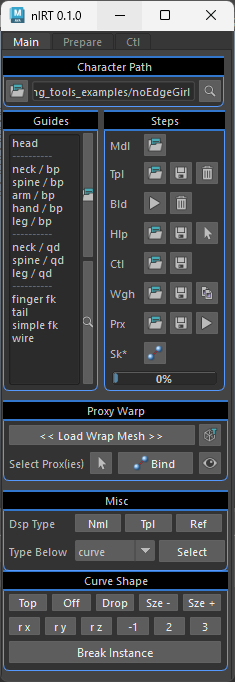
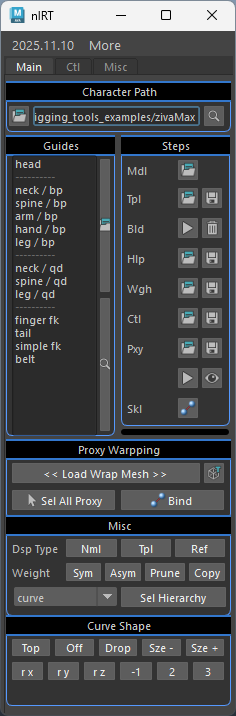
Add installation script for nl_rigging_tools module
- Implemented the onMayaDroppedPythonFile function to create a module file for nl_rigging_tools.
- The script generates a .mod file in the Maya modules directory, pointing to the current directory.
- Added logging for successful creation and error handling for file operations.
- Included functionality to import and reload the nl_rigging_tools module and display its UI.

diff --git a/nl_modules/nl_rigging_tools.py b/nl_modules/nl_rigging_tools.py
@@ -1,5 +1,6 @@
 import logging
 import os
+import maya.mel as mel
 from functools import partial
 from importlib import reload
 import maya.cmds as mc
@@ -55,43 +56,70 @@ class MyToolWin(MayaQWidgetDockableMixin, QtWidgets.QMainWindow):
     def __init__(self, parent=None):
         """Initialize the main window and load the UI."""
         super(MyToolWin, self).__init__(parent)
-        logging.info("load " + UI_PATH)
+        # logging.info("Load " + UI_PATH)
         self.UI = QUiLoader().load(UI_PATH)
 
-        self.setWindowTitle("nlRT 0.1.0")
+        self.setWindowTitle("nlRT")
         self.setCentralWidget(self.UI)
-        self.setGeometry(1070, 260, 230, 660)
+        self.setGeometry(1070, 260, 230, 680)
         self.connect_UI()
-        # self.addMenuBar()
+        self.addMenuBar()
 
     def close_window(self):
         """Close the main window."""
         self.close()
 
+    def addIcon2CurrShelf(*args):
+        """Add icon to current shelf"""
+        currDir = os.path.dirname(__file__)
+        base = os.path.basename(__file__)
+        icon_path = os.path.join(currDir, base.split(".")[0] + ".bmp")
+
+        if not os.path.exists(icon_path):
+            logging.warning(f"Icon file not found: {icon_path}")
+            return
+
+        shelfCmd = (
+            "import nl_modules.nl_rigging_tools as nlRT\n"
+            + "from importlib import reload\n"
+            + "reload(nlRT)\n"
+            + "nlRT.showUI()\n"
+        )
+        shelfLayout = mel.eval(
+            "global string $gShelfTopLevel; string $tmp = $gShelfTopLevel;"
+        )
+        currShelf = mc.tabLayout(shelfLayout, q=1, selectTab=1)
+
+        mc.setParent(currShelf)
+        mc.shelfButton(
+            c=shelfCmd,
+            annotation="nl_rigging_tools",
+            label="nl_rigging_tools",
+            image=icon_path,
+            image1=icon_path,
+            sourceType="python",
+        )
+        logging.info("Tool icon created at the current shelf.")
+
     def addMenuBar(self):
         """Add a menu bar with an 'About' section."""
         menuBar = QMenuBar(self)
+        ver_QM = QMenu("&2025.11.10", self)
         more_QM = QMenu("&More", self)
-        # about_QM = QMenu("&About", self)
 
         addIcon_QA = QAction(self)
         addIcon_QA.setText("&Add Icon to Current Shelf")
-        addIcon_QA.triggered.connect(self.addIconToCurrShelf)
-
-        clickDrag_QA = QAction(self)
-        clickDrag_QA.setText("&Toggle Click Drag")
-        clickDrag_QA.triggered.connect(self.toggleClickDrag)
-
+        addIcon_QA.triggered.connect(self.addIcon2CurrShelf)
         more_QM.addAction(addIcon_QA)
-        more_QM.addAction(clickDrag_QA)
 
+        # clickDrag_QA = QAction(self)
+        # clickDrag_QA.setText("&Toggle Click Drag")
+        # clickDrag_QA.triggered.connect(self.toggleClickDrag)
+        # more_QM.addAction(clickDrag_QA)
+
+        menuBar.addMenu(ver_QM)
         menuBar.addMenu(more_QM)
-        # menuBar.addMenu(about_QM)
         self.setMenuBar(menuBar)
-
-    def addIconToCurrShelf(self):
-        """Add the rigging tools icon to the current shelf."""
-        common.addIconToCurrShelf()
 
     def toggleClickDrag(self):
         """Toggle the click drag preference in Maya."""
@@ -590,7 +618,7 @@ class MyToolWin(MayaQWidgetDockableMixin, QtWidgets.QMainWindow):
 global nlRT_win
 
 
-def main():
+def showUI():
     """Main function to initialize and show the rigging tools UI."""
     global nlRT_win
     try:
@@ -607,7 +635,7 @@ def main():
 
 
 if __name__ == "__main__":
-    main()
+    showUI()
 
 mc.evalDeferred("reloadMenus()")
 mc.scriptJob(permanent=1, runOnce=1, event=["SelectionChanged", "reloadMenusAutorig"])

diff --git a/nl_modules/utils/common.py b/nl_modules/utils/common.py
@@ -651,39 +651,39 @@ def add_mirror_attr(tgts=None):
             t.a.add("wsMirror", lock=1, k=0, cb=0, dv=1)
 
 
-def addIconToCurrShelf():
-    """Add icon to current shelf"""
-    if sys.version_info.major < 3:
-        raise ImportError("nl_rigging_tools does not support Python 2.")
+# def addIconToCurrShelf():
+#     """Add icon to current shelf"""
+#     if sys.version_info.major < 3:
+#         raise ImportError("nl_rigging_tools does not support Python 2.")
 
-    currDir = os.path.dirname(__file__)
-    iconPath = os.path.join(currDir, "nl_rigging_tools.bmp")
+#     currDir = os.path.dirname(__file__)
+#     iconPath = os.path.join(currDir, "nl_rigging_tools.bmp")
 
-    if not os.path.exists(iconPath):
-        logging.warning(f"Icon file not found: {iconPath}")
-        return
+#     if not os.path.exists(iconPath):
+#         logging.warning(f"Icon file not found: {iconPath}")
+#         return
 
-    shelfCmd = (
-        "from nl_modules import nl_rigging_tools\n"
-        + "from importlib import reload\n"
-        + "reload(nl_rigging_tools)\n\n"
-        + "nl_rigging_tools.main()\n"
-    )
-    shelfLayout = mel.eval(
-        "global string $gShelfTopLevel; string $tmp = $gShelfTopLevel;"
-    )
-    currShelf = mc.tabLayout(shelfLayout, q=1, selectTab=1)
+#     shelfCmd = (
+#         "from nl_modules import nl_rigging_tools\n"
+#         + "from importlib import reload\n"
+#         + "reload(nl_rigging_tools)\n\n"
+#         + "nl_rigging_tools.showUI()\n"
+#     )
+#     shelfLayout = mel.eval(
+#         "global string $gShelfTopLevel; string $tmp = $gShelfTopLevel;"
+#     )
+#     currShelf = mc.tabLayout(shelfLayout, q=1, selectTab=1)
 
-    mc.setParent(currShelf)
-    mc.shelfButton(
-        c=shelfCmd,
-        annotation="nl_rigging_tools",
-        label="nl",
-        image=iconPath,
-        image1=iconPath,
-        sourceType="python",
-    )
-    logging.info("Tool icon created at the current shelf.")
+#     mc.setParent(currShelf)
+#     mc.shelfButton(
+#         c=shelfCmd,
+#         annotation="nl_rigging_tools",
+#         label="nl",
+#         image=iconPath,
+#         image1=iconPath,
+#         sourceType="python",
+#     )
+#     logging.info("Tool icon created at the current shelf.")
 
 
 def build_ribbon_rivet(

diff --git a/nl_rigging_tools_install.py b/nl_rigging_tools_install.py
@@ -1,0 +1,30 @@
+import logging
+import os
+import sys
+
+sys.dont_write_bytecode = True
+
+
+def onMayaDroppedPythonFile(*args):
+
+    mod_name = "nl_rigging_tools"
+    cur_dir = os.path.dirname(__file__)
+    app_dir = os.environ["MAYA_APP_DIR"]
+    mod_dir = os.path.join(app_dir, "modules")
+    mod_path = os.path.join(mod_dir, f"{mod_name}.mod")
+
+    # Create mod file
+    mod_content = f"+ {mod_name} any {cur_dir}\nscripts: .\n"
+    try:
+        with open(mod_path, "w") as f:
+            f.write(mod_content)
+        logging.info(f"Module file created at: {mod_path}")
+    except Exception as e:
+        logging.error(f"Failed to create module file: {e}")
+
+    # Open UI
+    import nl_modules.nl_rigging_tools as nlRT
+    from importlib import reload
+
+    reload(nlRT)
+    nlRT.showUI()

diff --git a/install/add_shelf_icon.py b/install/add_shelf_icon.py
@@ -4,6 +4,20 @@
 # import maya.mel as mel
 from nl_modules.utils import common
 
+print(
+    r"""
+ _______________________________
+|          _   ____    ______   |
+|         | | |  _ `| |__  __`| | 
+|  _ __   | | | |_| |    | |    |
+| | '_ `| | | |  _  /    | |    |
+| | | | | | | | | \ \    | |    |
+| |_| |_| |_| |_|  \_\   |_|    |
+|_______________________________|
+
+"""
+)
+
 
 def onMayaDroppedPythonFile(*args):
     """This function is called when the script is dragged and dropped into Maya."""

diff --git a/nl_modules/utils/log.py b/nl_modules/utils/log.py
@@ -23,8 +23,8 @@ def update_root_logger():
     stream_hdl.setFormatter(formatter)
     logger.addHandler(stream_hdl)
 
-    print(f"{'Type':5s} {'File':20s} {'Method':20s} Message")
-    print(f"{'----':5s} {'----':20s} {'------':20s} -------")
+    # print(f"{'Type':5s} {'File':20s} {'Method':20s} Message")
+    # print(f"{'----':5s} {'----':20s} {'------':20s} -------")
 
 
 # def print_methods(className):

diff --git a/README.md b/README.md
@@ -27,11 +27,12 @@ While working on a project that required extensive use of the Ziva muscle plugin
 
 ## Features
 
-- **Modular**: Supports characters with any number of parts.
-- **Data Reuse**: Save and restore templates, controls, and proxies.
-- **Auto Connect/Bind**: Components and skeletal meshes are automatically connected and bound.
-- **Marking Menus**: Speed up rigging with custom marking menus.
-- **Concise Python code**: For easy extension.
+- **Modular**: Supports characters with multiple parts/limbs.
+- **Data Reuse**: Restorable templates, controls, and proxies.
+- **Auto Connect**: Common limbs are auto connected
+- **Marking Menus**: Custom marking menus for the rig and rigging tasks.
+- **Custom Framework**: Faster and more readable coding.
+- **Skeletal Setup**: 
 
 ## Framework Classes
 ```mermaid
@@ -65,7 +66,7 @@ flowchart
 ```
 
 ## Marking menus
-Two Marking menus are made to speed up rigging work.
+Two Marking menus are made to speed up rigging tasks.
 |Menu|Shortcut|Interface|
 |:-:|:-:|:-:|
 |Rig Building |Ctrl + MMB|![The Autorig](nl_modules/doc/marking_menu_autorig.png)|
@@ -78,20 +79,17 @@ Two Marking menus are made to speed up rigging work.
 |:-:|:-:|:-:|
 |2023.3 |3.9.7|Win 11
 
-The tool might work in 2022, but it is not tested.
 ## Installation
 
-1. Download and extract repository
-2. In Maya, click to the shelf you want to have the tool icon added
-3. Drag and drop the file "install/dragAndDrop.py" into the viewport
+1. Download and extract to arbitary location
+2. Drag nl_rigging_tools_install.py onto Maya viewport
+3. Go to your shelf and run "More > Add Icon to Current Shelf" 
 
 
 ## Reference
 1. [BoneClones](https://boneclones.com/category/all-zoology-skeletons/fields-of-study)
-
 2. [ivlpaleontology](https://sketchfab.com/ivlpaleontology)
-
 3. [Python for Maya : Beginner to Advanced Rigging Automation by Nick Hughes](https://www.udemy.com/course/python-for-maya-beginner-to-advanced-rigging-automation)
 
 ##
-For more details, visit my blog [www.nickyliu.com](http://www.nickyliu.com)
+For more details, visit my blog at [https://www.nickyliu.com](https://www.nickyliu.com)
